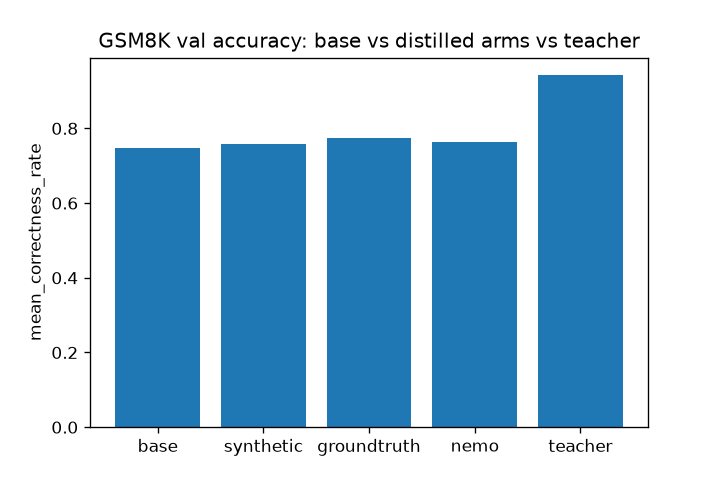
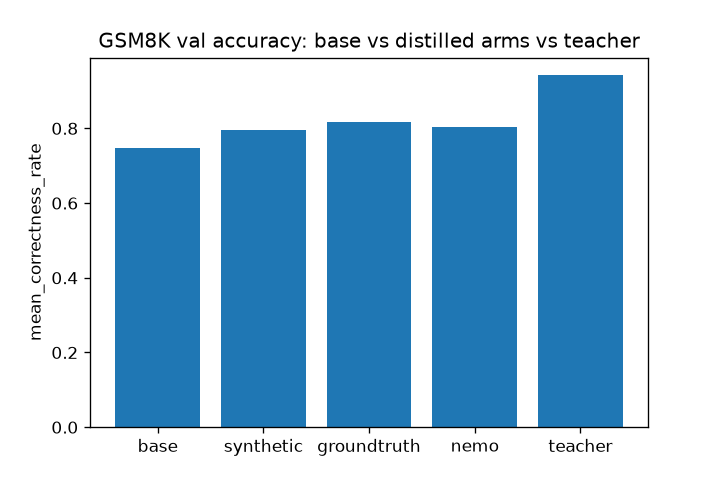
Bump gsm8k_distillation LoRA/SFT recipe and update README with new eval results
LoRA rank 16->32, alpha 32->64, target modules extended from attn-only
to attn+MLP; learning rate 1e-5->2e-4, 1->3 epochs, cosine schedule
with 3% warmup. README accuracy/gap-closure numbers and the gap-closure
plot are refreshed to match the resulting eval reports.

Changed region(s): [[0.3056, 0.25, 0.7333, 0.3125]]

diff --git a/examples/gsm8k_distillation/scripts/eval.py b/examples/gsm8k_distillation/scripts/eval.py
@@ -46,13 +46,15 @@ class ParsingErrorCounter:
             self.num_parsing_errors += 1
 
 
-def generate_student(questions: list[str], k: int, lora_path: str | None, base_model: str | None = None) -> list[list[str]]:
+def generate_student(
+    questions: list[str], k: int, lora_path: str | None, base_model: str | None = None, temperature: float = 0.0
+) -> list[list[str]]:
     config_kwargs = {"lora_path": lora_path}
     if base_model:
         config_kwargs["name"] = base_model
     student = StudentClient(StudentConfig(**config_kwargs))
     student.load()
-    return student_solve(student, questions, n=k)
+    return student_solve(student, questions, n=k, temperature=temperature)
 
 
 def generate_teacher(questions: list[str], k: int) -> list[list[str]]:
@@ -68,12 +70,15 @@ def evaluate(
     lora_path: str | None,
     error_counter: ParsingErrorCounter,
     base_model: str | None = None,
+    temperature: float = 0.0,
 ) -> pd.DataFrame:
     questions = df["prompt"].tolist()
     ground_truth = df["completion"].tolist()
 
     all_samples = (
-        generate_student(questions, k, lora_path, base_model) if mode == "student" else generate_teacher(questions, k)
+        generate_student(questions, k, lora_path, base_model, temperature)
+        if mode == "student"
+        else generate_teacher(questions, k)
     )
 
     rows = []
@@ -113,6 +118,13 @@ def main() -> None:
     parser.add_argument("--lora-path", type=str, default=None, help="LoRA adapter checkpoint (student mode only).")
     parser.add_argument("--base-model", type=str, default=None, help="Override the student base model (student mode only).")
     parser.add_argument("--k", type=int, default=1, help="Samples drawn per question.")
+    parser.add_argument(
+        "--temperature",
+        type=float,
+        default=0.0,
+        help="Student sampling temperature (student mode only; default 0.0 = greedy, for a "
+        "deterministic headline accuracy number). Ignored in teacher mode.",
+    )
     parser.add_argument("--limit", type=int, default=None, help="Evaluate only the first N val questions.")
     parser.add_argument("--data", type=Path, default=DEFAULT_DATA_PATH)
     parser.add_argument("--run-name", type=str, required=True, help="Namespaces output under output/eval/<run-name>/.")
@@ -133,7 +145,7 @@ def main() -> None:
     logger.info("Evaluating %s (mode=%s, lora_path=%s) on %d questions, k=%d", args.run_name, args.mode, args.lora_path, len(df), args.k)
 
     error_counter = ParsingErrorCounter()
-    annotated = evaluate(df, args.k, args.mode, args.lora_path, error_counter, args.base_model)
+    annotated = evaluate(df, args.k, args.mode, args.lora_path, error_counter, args.base_model, args.temperature)
 
     output_dir = args.output_dir or (OUTPUT_DIR / "eval" / args.run_name)
     output_dir.mkdir(parents=True, exist_ok=True)

diff --git a/examples/gsm8k_distillation/scripts/train.py b/examples/gsm8k_distillation/scripts/train.py
@@ -17,7 +17,6 @@ Requires a CUDA GPU. No vLLM engine should be loaded on the same GPU while this 
 from __future__ import annotations
 
 import argparse
-import math
 import os
 from pathlib import Path
 
@@ -40,7 +39,6 @@ DEFAULT_SFT_CONFIG_PATH = CONFIG_DIR / "sft_config.json"
 DEFAULT_PEFT_CONFIG_PATH = CONFIG_DIR / "peft_config.json"
 DEFAULT_EVAL_DATA_PATH = GSM8K_VAL_PARQUET
 
-EVALS_PER_EPOCH = 4
 SMOKE_TEST_NUM_SAMPLES = 8
 SMOKE_TEST_MAX_STEPS = 2
 
@@ -63,6 +61,8 @@ class SFTHyperparams(BaseModel):
     gradient_accumulation_steps: int = Field(default=8, ge=1)
     learning_rate: float = Field(default=1e-5, gt=0.0)
     total_epochs: int = Field(default=1, ge=1)
+    lr_scheduler_type: str = "linear"
+    warmup_ratio: float = Field(default=0.0, ge=0.0, le=1.0)
 
 
 class PeftHyperparams(BaseModel):
@@ -90,7 +90,7 @@ def build_sft_config(
     max_steps: int | None = None,
     report_to: str = "none",
     run_name: str | None = None,
-    eval_steps: int | None = None,
+    eval_enabled: bool = False,
 ) -> SFTConfig:
     kwargs = dict(
         output_dir=output_dir,
@@ -98,14 +98,15 @@ def build_sft_config(
         gradient_accumulation_steps=cfg.gradient_accumulation_steps,
         learning_rate=cfg.learning_rate,
         num_train_epochs=cfg.total_epochs,
+        lr_scheduler_type=cfg.lr_scheduler_type,
+        warmup_ratio=cfg.warmup_ratio,
         max_length=cfg.max_seq_length,
         gradient_checkpointing=cfg.gradient_checkpointing,
         bf16=(_DTYPE_MAP[cfg.dtype] == torch.bfloat16),
         report_to=report_to,
     )
-    if eval_steps is not None:
-        kwargs["eval_strategy"] = "steps"
-        kwargs["eval_steps"] = eval_steps
+    if eval_enabled:
+        kwargs["eval_strategy"] = "epoch"
         kwargs["per_device_eval_batch_size"] = cfg.micro_batch_size_per_gpu
     else:
         kwargs["eval_strategy"] = "no"
@@ -167,14 +168,9 @@ def train(
     logger.info("Loaded %d training examples from %s", len(train_ds), data_path)
 
     eval_ds = None
-    eval_steps = None
     if eval_data_path is not None:
         eval_ds = load_dataset(eval_data_path, eval_prompt_column, eval_completion_column, eval_max_samples, seed)
         logger.info("Loaded %d eval examples from %s", len(eval_ds), eval_data_path)
-        steps_per_epoch = math.ceil(
-            len(train_ds) / (sft_cfg.micro_batch_size_per_gpu * sft_cfg.gradient_accumulation_steps)
-        )
-        eval_steps = max(1, steps_per_epoch // EVALS_PER_EPOCH)
 
     if wandb_project is not None:
         os.environ["WANDB_PROJECT"] = wandb_project
@@ -190,7 +186,7 @@ def train(
         max_steps=max_steps,
         report_to="wandb" if wandb_project is not None else "none",
         run_name=run_name,
-        eval_steps=eval_steps,
+        eval_enabled=eval_ds is not None,
     )
 
     trainer = SFTTrainer(

diff --git a/examples/gsm8k_distillation/common/inference.py b/examples/gsm8k_distillation/common/inference.py
@@ -45,13 +45,16 @@ def teacher_solve(
 
 
 def student_solve(
-    student: StudentClient, questions: list[str], n: int = K_STUDENT_SAMPLES
+    student: StudentClient,
+    questions: list[str],
+    n: int = K_STUDENT_SAMPLES,
+    temperature: float = STUDENT_SOLVE_TEMPERATURE,
 ) -> list[list[str]]:
     """`n` student completions per question."""
     return student.generate(
         [build_solve_prompt(q) for q in questions],
         n=n,
-        temperature=STUDENT_SOLVE_TEMPERATURE,
+        temperature=temperature,
         max_tokens=SOLVE_MAX_TOKENS,
     )
 

diff --git a/examples/gsm8k_distillation/clients/student_client.py b/examples/gsm8k_distillation/clients/student_client.py
@@ -26,7 +26,7 @@ class StudentConfig:
     gpu_memory_utilization: float = 0.6
     max_model_len: int = 2048
     lora_path: str | None = None
-    max_lora_rank: int = 16
+    max_lora_rank: int = 32
 
 
 class StudentClient:

diff --git a/examples/gsm8k_distillation/README.md b/examples/gsm8k_distillation/README.md
@@ -10,12 +10,11 @@ synthetic, real ground truth, and a NeMo Data Designer flat-synthetic baseline. 
 clearest result is on diversity: scored with the Vendi score (an effective count of
 distinct samples), novelty search's question and reasoning embeddings are ~2.4–2.7x more
 diverse than the flat baseline's, and still cover the ground-truth distribution more
-closely (lower mean nearest-neighbor distance) on both axes. Accuracy tells a noisier
-story at this scale — ground truth closes the most gap (14.1%), with novelty search
-(4.7%) and the NeMo baseline (7.4%) both closing much smaller and similarly-sized shares;
-with one SFT epoch on a 1.7B student, all three arms move accuracy by only a few points
-over the untrained base, so we don't read much into the ordering between the two
-synthetic arms.
+closely (lower mean nearest-neighbor distance) on both axes. Accuracy shows the same
+ordering: ground truth closes the most gap (34.8%), followed by the NeMo baseline
+(28.5%) and novelty search (23.8%). Under a rank-32 LoRA over attention+MLP trained for
+3 epochs, all three arms now close a substantial share of the teacher/student gap,
+rather than the marginal movement seen with a 1-epoch, rank-16 run.
 
 ## 1. Research questions
 
@@ -86,8 +85,9 @@ Each arm is distilled independently via LoRA SFT (`train.py`) with identical
 hyperparameters (`configs/`):
 
 - Base model: `Qwen/Qwen3-1.7B`
-- LoRA: rank 16, alpha 32, target modules `q_proj/k_proj/v_proj/o_proj`
-- Learning rate 1e-5, bfloat16, 1 epoch
+- LoRA: rank 32, alpha 64, target modules
+  `q_proj/k_proj/v_proj/o_proj/gate_proj/up_proj/down_proj`
+- Learning rate 2e-4, bfloat16, 3 epochs, cosine LR schedule, 3% warmup
 
 ### 2.4 Evaluation
 
@@ -109,17 +109,20 @@ gap_closure = (distilled_accuracy − base_accuracy) / (teacher_accuracy − bas
 | arm | accuracy | gap closure |
 |---|---:|---:|
 | base | 0.7483 | – |
-| synthetic | 0.7574 | 4.7% |
-| groundtruth | 0.7756 | 14.1% |
-| nemo | 0.7627 | 7.4% |
+| synthetic | 0.7945 | 23.8% |
+| groundtruth | 0.8158 | 34.8% |
+| nemo | 0.8036 | 28.5% |
 | teacher | 0.9424 | – |
 
-With a larger 1.7B student and one SFT epoch, all three arms move accuracy only a few
-points above the untrained base (0.7483). Ground truth closes the most gap (14.1%);
-novelty-search synthetic (4.7%) and the flat NeMo baseline (7.4%) both close much smaller
-and similarly modest shares. These deltas are small enough at k=1 single-sample eval that
-we don't read much into the ordering between the two synthetic arms — §3.3's diversity
-metrics are the more decisive comparison between them.
+With a rank-32 LoRA over attention+MLP trained for 3 epochs, all three arms now close a
+substantial share of the teacher/student gap above the untrained base (0.7483). Ground
+truth leads (0.8158, 34.8% gap closure), followed by the NeMo baseline (0.8036, 28.5%)
+and novelty-search synthetic (0.7945, 23.8%) — the same ordering as the earlier
+1-epoch/rank-16 run, but with far larger and now clearly separated gap-closure shares
+rather than a near-tie. This is still a single k=1 eval run per arm, so we'd want repeat
+runs before treating the exact ranking as settled, but the gap between arms is no longer
+small enough to dismiss — §3.3's diversity metrics remain the more decisive comparison
+between the two synthetic arms specifically.
 
 ### 3.2 Difficulty coverage
 
@@ -182,12 +185,13 @@ coverage of the ground-truth distribution. The difficulty-distribution compariso
 embedding keeps its samples much more evenly spread across easy and hard buckets than
 NeMo's unconstrained sampling, which collapses heavily onto the easiest bucket.
 
-Accuracy is a noisier signal at this model scale. Ground truth still leads on gap
-closure (14.1%), but with a 1.7B student and a single SFT epoch, all three arms move
-accuracy only a few points over the untrained base, and novelty search (4.7%) and the
-NeMo baseline (7.4%) land close enough together that we don't treat their relative order
-as meaningful — a clear case of large, robust diversity gains not (yet) translating into
-a correspondingly large downstream accuracy gap at this scale. The crossover operator —
+Accuracy is more differentiated under the updated training recipe. Ground truth still
+leads on gap closure (34.8%), with the NeMo baseline (28.5%) and novelty search (23.8%)
+both closing large but smaller shares, in the same order as the earlier 1-epoch/rank-16
+run. The gap between the two synthetic arms is now wide enough to be worth noting rather
+than dismissing as noise, though it's still a single k=1 eval run per arm — a case of
+large, robust diversity gains only partly translating into a correspondingly large
+downstream accuracy gap at this scale. The crossover operator —
 blending two parents' arithmetic techniques rather than paraphrasing a single parent —
 again contributed roughly a third of the final synthetic dataset (2603/8011), suggesting
 technique-blending remains a meaningful source of the novelty search arm's diversity
